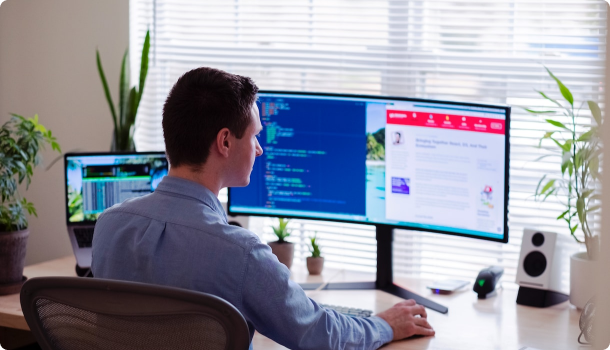
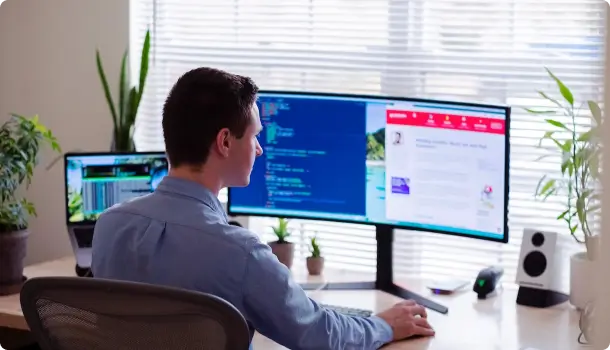
change metadata title of some pages , move all image to webp format to improve performance of website , aldo reduce sizes of images

diff --git a/src/app/styles/styles.module.css b/src/app/styles/styles.module.css
@@ -82,31 +82,31 @@
 
 
 .signupexp {
-  background-image: url("../../assets/2023060719535.png");
+  background-image: url("../../assets/2023060719535.webp");
 }
 
 .gimg1{
-  background-image: url("../../assets/gallery/Rectangle 12.png");
+  background-image: url("../../assets/gallery/Rectangle-12.webp");
   background-size: cover;
   background-repeat: no-repeat;
   background-position: center;
 }
 
 .gimg2{
-  background-image: url("../../assets/gallery/Rectangle 14.png");
+  background-image: url("../../assets/gallery/Rectangle-14.webp");
   background-size: cover;
   background-repeat: no-repeat;
   background-position: center;
 }
 .gimg3 {
-  background-image: url("../../assets/gallery/Rectangle 19.png");
+  background-image: url("../../assets/gallery/Rectangle-19.webp");
   background-size: cover;
   background-repeat: no-repeat;
   background-position: center;
 }
 
 .gimg4 {
-  background-image: url("../../assets/gallery/Rectangle 20.png");
+  background-image: url("../../assets/gallery/Rectangle-20.webp");
   background-size: cover;
   background-repeat: no-repeat;
   background-position: center;

diff --git a/src/app/components/home/ServiceProvider.jsx b/src/app/components/home/ServiceProvider.jsx
@@ -1,8 +1,8 @@
 import styles from "@/app/styles/styles";
 import Image from "next/image";
 import React from "react";
-import map from "../../../assets/map.png";
-import mapsquare from "../../../assets/mapsquare.png";
+import map from "../../../assets/map.webp";
+import mapsquare from "../../../assets/mapsquare.webp";
 const ServiceProvider = () => {
   return (
     <div className="bg-[#F1FAFF] pt-12 pb-12  md:pt-20 md:pb-28">
@@ -32,7 +32,6 @@ const ServiceProvider = () => {
             unoptimized={true}
           />
         </div>
-
 
         <div className="flex items-center  md:flex-row gap-4 justify-between mt-4 px-4 flex-shrink flex-wrap">
           <ul className="list-disc">

diff --git a/src/app/components/home/Hero.jsx b/src/app/components/home/Hero.jsx
@@ -10,7 +10,7 @@ const Hero = () => {
       <div
         className={`${styles.width} pt-[24%] md:pt-[12%] pb-[15%] md:pb-[10%]`}
       >
-        <h1 className="font-semibold text-4xl md:text-6xl tracking-[-0.02em] text-white md:w-3/5 leading-[44px] md:leading-[72px]">
+        <h1 className="font-semibold text-3xl md:text-6xl tracking-[-0.02em] text-white md:w-3/5 leading-[44px] md:leading-[72px]">
           Alberta & Saskatchewan Wi-Fi Broadband Internet Service by
           <span
             className={`${style.bgFilter} rounded-md text-primary p-1 ml-2 block md:inline-block w-[220px] md:w-auto`}

diff --git a/src/app/page.js b/src/app/page.js
@@ -3,7 +3,7 @@ import Landing from "./landing/page";
 import Script from "next/script";
 
 export const metadata = {
-  title: "AB & SK Wi-Fi Home Internet Service by Swift-Net.ca",
+  title: "[EASY SIGN-UP] AB/SK Local Wi-Fi Internet Provider by Swift-Net.ca",
   description:
     "Get connected with Swift-Net.ca, the leading home Wi-Fi internet service provider in Alberta & Saskatchewan, providing high-speed wireless internet service in Lloydminster, Cold Lake, North Battleford, and more rural communities. Sign up today!",
 };

diff --git a/src/app/sign-up/page.jsx b/src/app/sign-up/page.jsx
@@ -3,7 +3,7 @@ import React from "react";
 import SignUp from "@components/signUp";
 
 export const metadata = {
-  title: "Sign-up for AB & SK Internet Service by Swift-Net.ca ",
+  title: "[SIGN-UP NOW] AB SK Local Wi-Fi Internet Provider",
   description:
     "Get connected with Swift-Net.ca, the leading home Wi-Fi internet service provider in Alberta & Saskatchewan, providing high-speed wireless internet service in Lloydminster, Cold Lake, North Battleford, and more rural communities. Sign up today!",
 };

diff --git a/src/app/pricing/page.jsx b/src/app/pricing/page.jsx
@@ -3,7 +3,7 @@ import React from "react";
 import LeftSide from "../components/pricing/LeftSide";
 
 export const metadata = {
-  title: "AB & SK Pricing by Swift-Net.ca",
+  title: "[SIGN-UP NOW] AB SK Local Internet Provider Pricing",
   description:
     "Get connected with Swift-Net.ca, the leading home Wi-Fi internet service provider in Alberta & Saskatchewan, providing high-speed wireless internet service in Lloydminster, Cold Lake, North Battleford, and more rural communities. Sign up today!",
 };

diff --git a/src/app/components/wifi-app-by-callix/Image.jsx b/src/app/components/wifi-app-by-callix/Image.jsx
@@ -1,5 +1,5 @@
 import React from "react";
-import imgScr from "@/assets/image 3.png";
+import imgScr from "@/assets/image-3.webp";
 import Image from "next/image";
 import styles from "@/app/styles/styles";
 
@@ -9,7 +9,6 @@ const ImageCmp = () => {
       className={`${styles.width} pb-3 mt-20 md:pb-10 flex items-center justify-center w-full`}
     >
       <div className="hidden md:flex">
-        {" "}
         <Image
           src={imgScr}
           alt="image"

diff --git a/src/app/installation-date/page.jsx b/src/app/installation-date/page.jsx
@@ -88,8 +88,8 @@ const page = () => {
               </p>
 
               <p className={`${styles.paragraph} text-[#4B5563]`}>
-                Service is available at your location. Please fill the data
-                below to select your plans and installment date
+                Service is available at your location! Please select your
+                preferred installation date and plan below.
               </p>
             </div>
 

diff --git a/src/app/components/pricing/LeftSide.jsx b/src/app/components/pricing/LeftSide.jsx
@@ -3,7 +3,7 @@ import React, { useEffect, useState } from "react";
 import { useSearchParams } from "next/navigation";
 import Step1 from "../signUp/Step1";
 import Image from "next/image";
-import Subtract from "@/assets/Subtract.jpg";
+import Subtract from "@/assets/Subtract.webp";
 import { Toaster } from "react-hot-toast";
 
 const LeftSide = () => {

diff --git a/src/app/components/signUp/index.jsx b/src/app/components/signUp/index.jsx
@@ -1,6 +1,6 @@
 "use client";
 import React, { useEffect, useState } from "react";
-import Subtract from "@/assets/Subtract.jpg";
+import Subtract from "@/assets/Subtract.webp";
 import Image from "next/image";
 import Step1 from "./Step1";
 import { Toaster } from "react-hot-toast";
